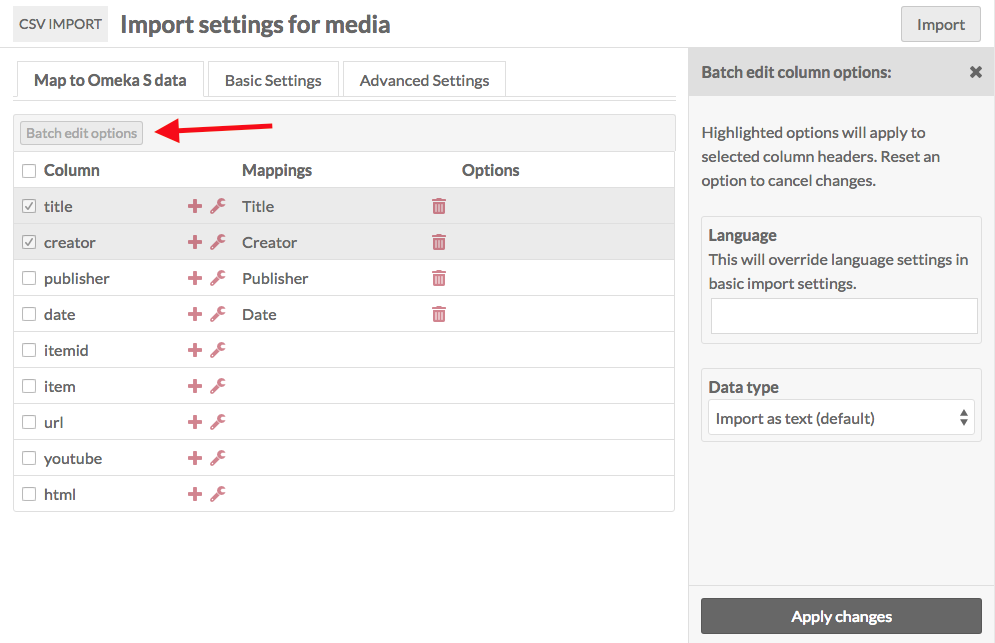
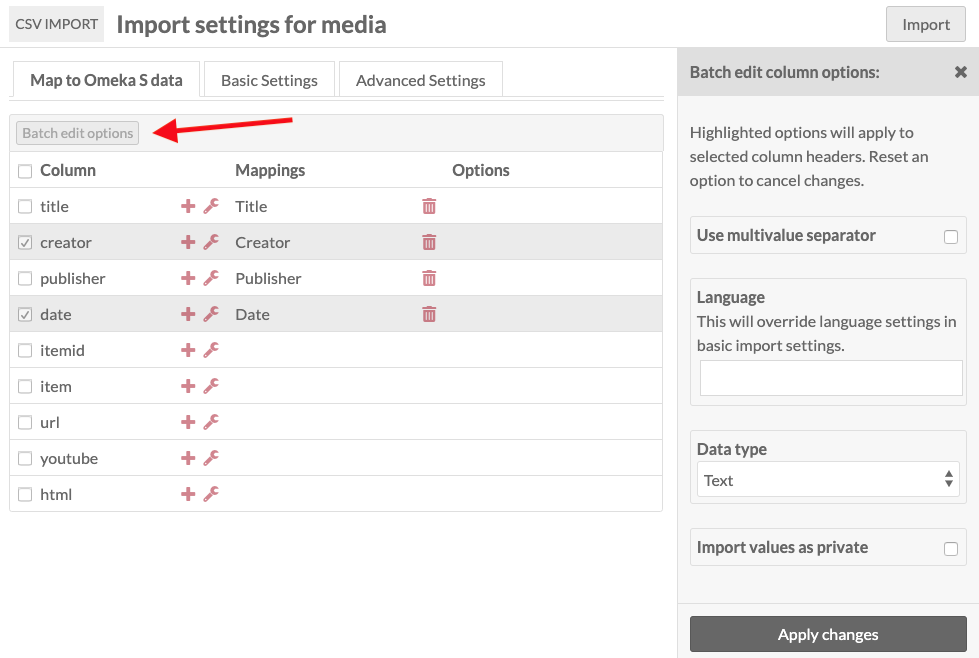
Update media section
With new options text and screenshots

diff --git a/docs/modules/csvimport.md b/docs/modules/csvimport.md
@@ -261,10 +261,11 @@ Column options are in addition to mappings. If you add options without also mapp
 
 This will open a drawer on the right side of the browser window with the following options: 
 
+- **Use multivalve separator:** check this box to use the multivalue separator for data in this column. You set the multivalue separator in the initial import page, but you can change it in the Basic Settings tab.  
 - **Language:** is a field where you can set the language for this column using the [IETF Language tag](https://en.wikipedia.org/wiki/IETF_language_tag) for the language in which the text is written. This will override what you have entered in basic settings. 
 - **Data type:** is a dropdown with at least three options, which correspond to the [values](../content/items/#values) one can use when adding properties to an item:
-	- Import as text (default);
-	- Import as URL reference;
+	- Import as text (default).
+	- Import as URL reference. You can set the label for the URI by including the desired text after a space, for example:  `http://example.com This Is The Label`
 	- Import as Omeka S resource ID. Note that you must have the correct ID for the resource. A resources' ID is the number sequence at the end of the url when on the view or edit page, so for `/admin/item/11576` the ID is 11576.
 	- If you have certain modules installed, such as Numeric Data Types, there may be additional data type options supplied by those modules.
 - **Import values as private**: check this box to set all property values *in this column* private.
@@ -357,9 +358,13 @@ To map a column header to a vocabulary property, click on the plus symbol button
 
 The drawer has multiple options for mapping:
 
-**Resource data** has a dropdown to set the item to which the media should be added. You can either use the item's internal ID, or any one of its properties (title, description). A resources' interal ID is the number sequence at the end of the url when on the view or edit page, so for `/admin/item/11576` the ID is 11576
+**Properties** select a property to map the column data to, from any of the installed vocabularies. Use the Filter field to search the available properties for a specific property.
 
-![resource data with dropdown](../modules/modulesfiles/csvimport_mediaResDat.png)
+![Properties option open showing all of the installed vocabularies for the Omeka S installation: Dublin Core, Bibliographic Ontology, Friend of a Friend, Scripto and OWL-Time Ontology.](../modules/modulesfiles/csvimport_itemsMapProp.png)
+
+**Media-specific data** has a dropdown to set the item to which the media should be added. You can either use the item's internal ID, or any one of its properties (title, description). A resources' interal ID is the number sequence at the end of the url when on the view or edit page, so for `/admin/item/11576` the ID is 11576
+
+![Media-specific data with dropdown](../modules/modulesfiles/csvimport_mediaMapData.png)
 
 **Generic data** also has a dropdown where you can set one of four options:
 
@@ -369,8 +374,6 @@ The drawer has multiple options for mapping:
 - *Visibility public/private:* set the visibility of the media. Use "private" or "public" in the spreadsheet. 
 
 ![Dropdown as described](../modules/modulesfiles/csvimport_itemsMapgeneric.png)
-
-**Properties** select a property to map the column data to, from any of the installed vocabularies. Use the Filter field to search the available properties for a specific property.
 
 **Media source** For the column in your spreadsheet which points to the media you are creating, select which kind of media it is from the dropdown: 
 
@@ -397,18 +400,21 @@ Column options are in addition to mappings. If you add options without also mapp
 
 This will open a drawer on the right side of the browser window with the following options: 
 
+- **Use multivalve separator:** check this box to use the multivalue separator for data in this column. You set the multivalue separator in the initial import page, but you can change it in the Basic Settings tab.  
 - **Language:** is a field where you can set the language for this column using the [IETF Language tag](https://en.wikipedia.org/wiki/IETF_language_tag) for the language in which the text is written. This will override what you have entered in basic settings. 
-- **Data type:** is a dropdown with three options, which correspond to the [values](../content/items/#values) one can use when adding properties to an item:
-	- Import as text (default);
-	- Import as URL reference;
-	- Import as Omeka S resource ID. Note that you must have the correct ID for the resource. A resources' ID is the number sequence at the end of the url when on the view or edit page, so for `/admin/item/11576` the ID is 11576
+- **Data type:** is a dropdown with at least three options, which correspond to the [values](../content/items/#values) one can use when adding properties to an item:
+	- Import as text (default).
+	- Import as URL reference. You can set the label for the URI by including the desired text after a space, for example:  `http://example.com This Is The Label`
+	- Import as Omeka S resource ID. Note that you must have the correct ID for the resource. A resources' ID is the number sequence at the end of the url when on the view or edit page, so for `/admin/item/11576` the ID is 11576.
+	- If you have certain modules installed, such as Numeric Data Types, there may be additional data type options supplied by those modules.
+- **Import values as private**: check this box to set all property values *in this column* private.
 
 ![drawer with options as described above](../modules/modulesfiles/csvimport_mediaColOpt.png)
 
 To remove a column option setting, click the wrench icon again and undo your changes manually.
 
 #### Batch edit
-When you select one or more rows in the table (columns from your csv file), you can use the "Batch edit options" button to apply the column options described above - language, and data type - to multiple csv columns at once. 
+When you select one or more rows in the table (columns from your csv file), you can use the "Batch edit options" button to apply the column options described above to multiple csv columns at once. 
 
 ![a screenshot of the Mapping tab, with the boxes for Columns Title and Creator checked. A red arrow points to the Batch edit options button. On the right side of the screen, a drawer offers options for changing the settings as described](../modules/modulesfiles/csvimport_batchEditMedia.png)
 
